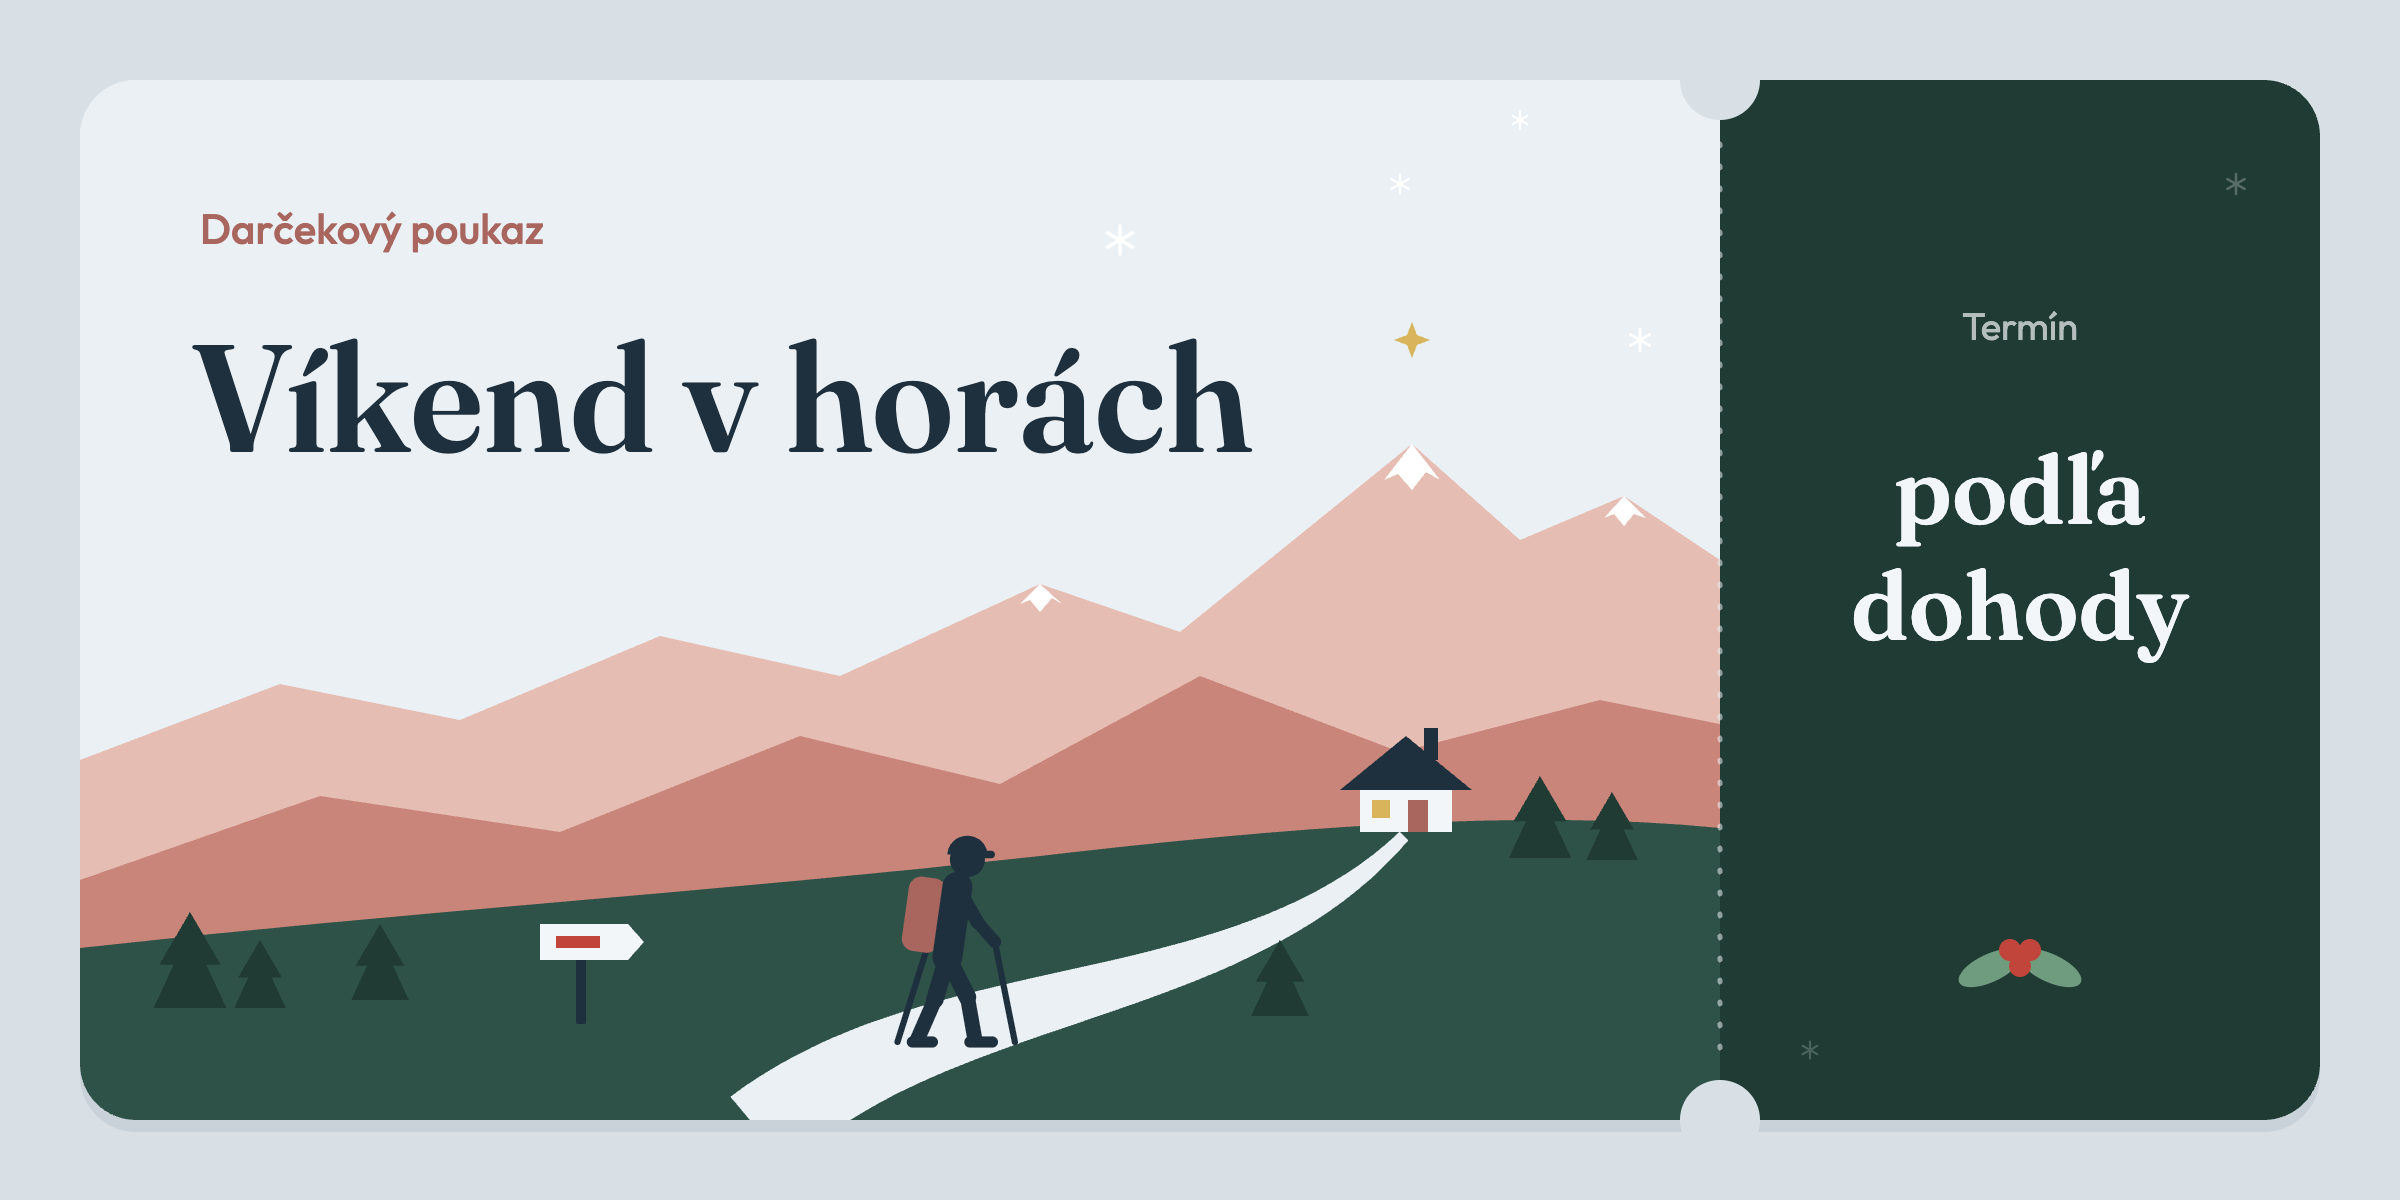
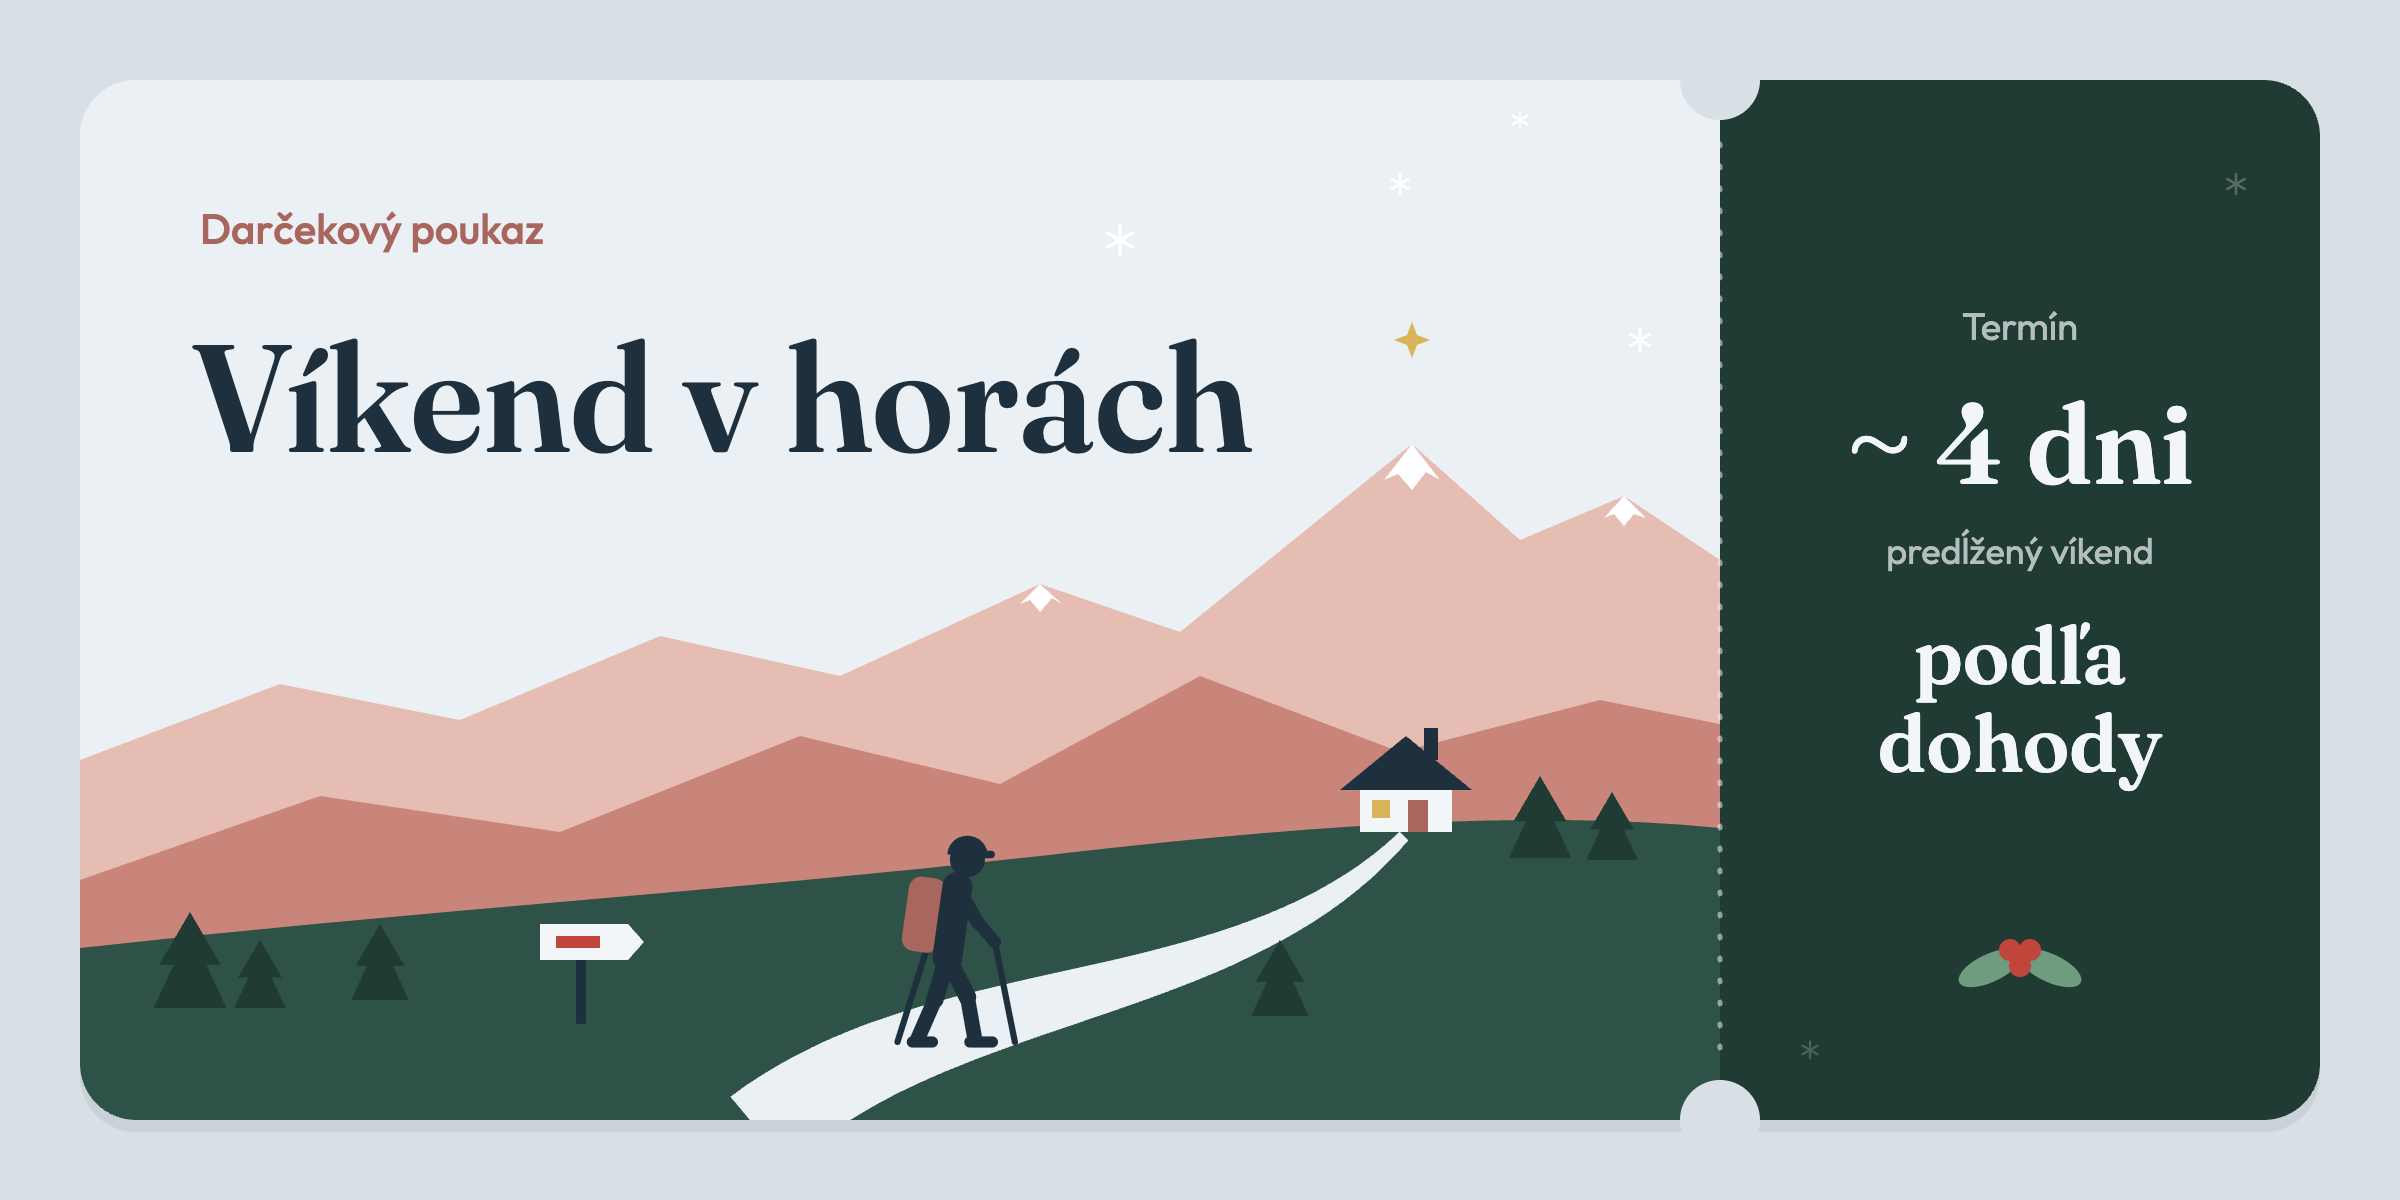
Shared ~ 4 dni stub for undated vouchers; add Lyžovačka

Changed region(s): [[0.75, 0.3392, 0.9375, 0.6475]]

diff --git a/poukaz-lyzovacka.html b/poukaz-lyzovacka.html
@@ -1,0 +1,153 @@
+<!DOCTYPE html>
+<html lang="sk">
+<head>
+<meta charset="utf-8">
+<meta name="viewport" content="width=device-width, initial-scale=1">
+<title>Poukaz: Lyžovačka</title>
+<link rel="preconnect" href="https://fonts.googleapis.com">
+<link rel="preconnect" href="https://fonts.gstatic.com" crossorigin>
+<link href="https://fonts.googleapis.com/css2?family=Fraunces:opsz,wght@9..144,600&family=Outfit:wght@400;500&display=swap" rel="stylesheet">
+<style>
+  html, body { margin: 0; height: 100%; }
+  body {
+    background: #D8E0E6;
+    display: flex; align-items: center; justify-content: center;
+    padding: 24px; box-sizing: border-box;
+  }
+  svg { width: 100%; max-width: 1200px; height: auto; display: block; }
+  .serif { font-family: "Fraunces", Georgia, "Times New Roman", serif; font-weight: 600; }
+  .sans  { font-family: "Outfit", "Segoe UI", system-ui, sans-serif; }
+</style>
+</head>
+<body>
+<svg viewBox="0 0 1200 600" xmlns="http://www.w3.org/2000/svg" role="img" aria-label="Darčekový poukaz: Lyžovačka, približne 4 dni, predĺžený víkend, termín podľa dohody">
+  <defs>
+    <clipPath id="leftPanel">
+      <path d="M68,40 H860 V560 H68 A28,28 0 0 1 40,532 V68 A28,28 0 0 1 68,40 Z"/>
+    </clipPath>
+    <g id="flake" stroke="#FFFFFF" stroke-width="1.8" stroke-linecap="round">
+      <line x1="0" y1="-7" x2="0" y2="7"/>
+      <line x1="-6.1" y1="-3.5" x2="6.1" y2="3.5"/>
+      <line x1="-6.1" y1="3.5" x2="6.1" y2="-3.5"/>
+    </g>
+    <path id="star" d="M0,-9 L2.5,-2.5 L9,0 L2.5,2.5 L0,9 L-2.5,2.5 L-9,0 L-2.5,-2.5 Z" fill="#D9B45A"/>
+  </defs>
+
+  <!-- card shadow + body -->
+  <rect x="40" y="46" width="1120" height="520" rx="28" fill="#1E2F3D" opacity="0.08"/>
+  <rect x="40" y="40" width="1120" height="520" rx="28" fill="#EAF0F4"/>
+
+  <!-- LEFT: scene -->
+  <g clip-path="url(#leftPanel)">
+    <rect x="40" y="40" width="820" height="520" fill="#EAF0F4"/>
+
+    <!-- snowflakes (a few more: it's winter) -->
+    <use href="#flake" transform="translate(560,110)"/>
+    <use href="#flake" transform="translate(640,180) scale(0.7)"/>
+    <use href="#flake" transform="translate(820,150) scale(0.8)"/>
+    <use href="#flake" transform="translate(500,250) scale(0.6)"/>
+    <use href="#flake" transform="translate(720,70) scale(0.6)"/>
+
+    <!-- star -->
+    <use href="#star" transform="translate(780,98)"/>
+
+    <!-- back range, deep snow -->
+    <polygon fill="#E6BDB3" points="40,380 150,330 240,350 350,290 440,320 540,250 600,284 680,206 760,262 860,232 860,560 40,560"/>
+    <polygon fill="#FFFFFF" points="680,206 654,238 667,233 680,244 692,232 706,238"/>
+    <polygon fill="#FFFFFF" points="540,250 520,272 530,268 540,276 550,267 560,272"/>
+    <polygon fill="#FFFFFF" points="350,290 334,306 342,303 350,309 358,302 366,306"/>
+    <polygon fill="#FFFFFF" points="860,232 836,250 846,248 856,255 860,253"/>
+
+    <!-- mid range -->
+    <polygon fill="#C98579" points="40,440 160,400 260,420 380,360 470,390 560,340 640,372 740,330 860,360 860,560 40,560"/>
+    <polygon fill="#FFFFFF" points="380,360 364,374 372,372 380,378 388,371 396,374"/>
+    <polygon fill="#FFFFFF" points="740,330 722,344 731,342 740,349 749,341 758,344"/>
+
+    <!-- piste -->
+    <path fill="#FFFFFF" d="M40,492 C300,470 560,390 860,318 L860,560 L40,560 Z"/>
+    <polygon fill="#D8E0E6" points="392.0,524.3 398.2,525.4 404.4,526.5 410.6,527.1 416.8,527.5 423.0,527.5 429.2,526.8 435.4,525.6 441.6,523.9 447.8,521.5 454.0,518.7 460.2,515.6 466.4,512.1 472.6,508.4 478.8,504.7 485.0,501.2 491.2,497.9 497.4,494.9 503.6,492.4 509.8,490.3 516.0,488.8 522.2,487.8 528.4,487.4 534.6,487.5 540.8,488.0 547.0,488.8 553.2,489.8 559.4,490.8 565.6,491.8 571.8,492.5 578.0,492.9 584.2,492.8 590.4,492.2 596.6,491.1 602.8,489.5 609.0,487.3 615.2,484.6 621.4,481.4 627.6,478.0 633.8,474.3 640.0,470.5 646.2,466.9 652.4,463.3 658.6,460.2 664.8,457.3 671.0,455.1 677.2,453.3 683.4,452.1 689.6,451.4 695.8,451.4 702.0,451.6 708.2,452.3 714.4,453.2 720.6,454.2 726.8,455.2 733.0,455.9 739.2,456.5 745.4,456.7 751.6,456.4 757.8,455.5 764.0,454.0 764.0,456.8 757.8,458.3 751.6,459.2 745.4,459.5 739.2,459.3 733.0,458.7 726.8,458.0 720.6,457.0 714.4,456.0 708.2,455.1 702.0,454.4 695.8,454.2 689.6,454.2 683.4,454.9 677.2,456.1 671.0,457.9 664.8,460.1 658.6,463.0 652.4,466.1 646.2,469.7 640.0,473.3 633.8,477.1 627.6,480.8 621.4,484.2 615.2,487.4 609.0,490.1 602.8,492.3 596.6,493.9 590.4,495.0 584.2,495.6 578.0,495.7 571.8,495.3 565.6,494.6 559.4,493.6 553.2,492.6 547.0,491.6 540.8,490.8 534.6,490.3 528.4,490.2 522.2,490.6 516.0,491.6 509.8,493.1 503.6,495.2 497.4,497.7 491.2,500.7 485.0,504.0 478.8,507.5 472.6,511.2 466.4,514.9 460.2,518.4 454.0,521.5 447.8,524.3 441.6,526.7 435.4,528.4 429.2,529.6 423.0,530.3 416.8,530.3 410.6,529.9 404.4,529.3 398.2,528.2 392.0,527.1"/>
+
+    <!-- chairlift -->
+    <g fill="#1E2F3D">
+      <rect x="557" y="305.18860540624996" width="6" height="92" rx="2"/>
+      <rect x="548" y="303.18860540624996" width="24" height="5" rx="2"/>
+      <rect x="787" y="247.07196738275002" width="6" height="92" rx="2"/>
+      <rect x="778" y="245.07196738275002" width="24" height="5" rx="2"/>
+      <rect x="468.9" y="326.83" width="404.5" height="2.2" rx="1.1" transform="rotate(-14.2 470 327.93)"/>
+      <rect x="508.9" y="316.723" width="24.2" height="2.2" rx="1.1" transform="rotate(90.0 510 317.823)"/>
+      <rect x="499" y="337.823" width="18.0" height="4" rx="2" transform="rotate(0.0 501 339.823)"/>
+      <rect x="499" y="337.823" width="14.0" height="4" rx="2" transform="rotate(-90.0 501 339.823)"/>
+      <rect x="638.9" y="283.874" width="24.2" height="2.2" rx="1.1" transform="rotate(90.0 640 284.974)"/>
+      <rect x="629" y="304.974" width="18.0" height="4" rx="2" transform="rotate(0.0 631 306.974)"/>
+      <rect x="629" y="304.974" width="14.0" height="4" rx="2" transform="rotate(-90.0 631 306.974)"/>
+      <rect x="718.9" y="263.66" width="24.2" height="2.2" rx="1.1" transform="rotate(90.0 720 264.76)"/>
+      <rect x="709" y="284.76" width="18.0" height="4" rx="2" transform="rotate(0.0 711 286.76)"/>
+      <rect x="709" y="284.76" width="14.0" height="4" rx="2" transform="rotate(-90.0 711 286.76)"/>
+    </g>
+
+    <!-- snowy pines -->
+    <g>
+      <polygon fill="#1F3B34" points="92,442.86093775524995 79.988,473.02093775525 85.708,473.02093775525 77.7,494.86093775524995 106.3,494.86093775524995 98.292,473.02093775525 104.012,473.02093775525"/>
+      <polygon fill="#FFFFFF" points="92,442.86093775524995 86.28,457.42093775524995 97.72,457.42093775524995"/>
+      <polygon fill="#1F3B34" points="128,452.4667851562499 119.222,474.5067851562499 123.402,474.5067851562499 117.55,490.4667851562499 138.45,490.4667851562499 132.598,474.5067851562499 136.778,474.5067851562499"/>
+      <polygon fill="#FFFFFF" points="128,452.4667851562499 123.82,463.1067851562499 132.18,463.1067851562499"/>
+      <polygon fill="#1F3B34" points="232,430.28653536074984 221.836,455.8065353607498 226.676,455.8065353607498 219.9,474.28653536074984 244.1,474.28653536074984 237.324,455.8065353607498 242.164,455.8065353607498"/>
+      <polygon fill="#FFFFFF" points="232,430.28653536074984 227.16,442.60653536074983 236.84,442.60653536074983"/>
+      <polygon fill="#1F3B34" points="668,333.87033871825 658.76,357.07033871825 663.16,357.07033871825 657.0,373.87033871825 679.0,373.87033871825 672.84,357.07033871825 677.24,357.07033871825"/>
+      <polygon fill="#FFFFFF" points="668,333.87033871825 663.6,345.07033871825 672.4,345.07033871825"/>
+      <polygon fill="#1F3B34" points="830,283.26045270525 818.45,312.26045270525 823.95,312.26045270525 816.25,333.26045270525 843.75,333.26045270525 836.05,312.26045270525 841.55,312.26045270525"/>
+      <polygon fill="#FFFFFF" points="830,283.26045270525 824.5,297.26045270525 835.5,297.26045270525"/>
+    </g>
+
+    <!-- skier carving downhill -->
+    <g transform="translate(380,532.3) rotate(-12.6) scale(-1.45,1.45)" fill="#1E2F3D">
+      <rect x="-29.75" y="-1.75" width="61.5" height="3.5" rx="1.75" transform="rotate(0.0 -28 0)"/>
+      <rect x="28.25" y="-1.75" width="9.9" height="3.5" rx="1.75" transform="rotate(-38.7 30 0)"/>
+      <rect x="-9.5" y="-6.5" width="24.2" height="7" rx="3.5" transform="rotate(-54.5 -6 -3)"/>
+      <rect x="0.25" y="-20.75" width="23.9" height="7.5" rx="3.75" transform="rotate(-127.6 4 -17)"/>
+      <rect x="-9.1" y="-35.1" width="39.8" height="2.2" rx="1.1" transform="rotate(118.6 -8 -34)"/>
+      <rect x="-11" y="-37" width="37.3" height="14" rx="7" fill="#A8665E" transform="rotate(-59.0 -4 -30)"/>
+      <rect x="-1.5" y="-6.5" width="24.2" height="7" rx="3.5" transform="rotate(-54.5 2 -3)"/>
+      <rect x="8.25" y="-20.75" width="26.6" height="7.5" rx="3.75" transform="rotate(-137.1 12 -17)"/>
+      <rect x="4.25" y="-50.75" width="19.0" height="5.5" rx="2.75" transform="rotate(48.0 7 -48)"/>
+      <rect x="13.5" y="-40.5" width="11.3" height="5" rx="2.5" transform="rotate(18.4 16 -38)"/>
+      <rect x="20.9" y="-37.1" width="46.2" height="2.2" rx="1.1" transform="rotate(129.5 22 -36)"/>
+      <circle cx="14" cy="-58" r="7"/>
+      <path d="M6,-59 a8.5,8 0 0,1 17,0 z"/>
+      <rect x="16" y="-60" width="8" height="4" rx="2" fill="#A8665E"/>
+    </g>
+
+    <!-- title block -->
+    <text x="100" y="122" class="sans" font-size="21" font-weight="500" fill="#A8665E">Darčekový poukaz</text>
+    <text x="96" y="226" class="serif" font-size="104" fill="#1E2F3D">Lyžovačka</text>
+  </g>
+
+  <!-- RIGHT: stub -->
+  <path d="M860,40 H1132 A28,28 0 0 1 1160,68 V532 A28,28 0 0 1 1132,560 H860 Z" fill="#1F3B34"/>
+  <use href="#flake" transform="translate(1118,92) scale(0.7)" opacity="0.25"/>
+  <use href="#flake" transform="translate(905,525) scale(0.6)" opacity="0.2"/>
+
+  <g text-anchor="middle" fill="#F3F6F8" transform="translate(0,40)">
+    <text x="1010" y="130" class="sans" font-size="19" opacity="0.7">Termín</text>
+    <text x="1010" y="202" class="serif" font-size="56">~ 4 dni</text>
+    <text x="1010" y="242" class="sans" font-size="18" opacity="0.7">predĺžený víkend</text>
+    <text x="1010" y="302" class="serif" font-size="40">podľa</text>
+    <text x="1010" y="346" class="serif" font-size="40">dohody</text>
+  </g>
+
+  <!-- holly sprig -->
+  <g>
+    <ellipse cx="995" cy="484" rx="17" ry="7" fill="#6F9B7E" transform="rotate(-25 995 484)"/>
+    <ellipse cx="1025" cy="484" rx="17" ry="7" fill="#6F9B7E" transform="rotate(25 1025 484)"/>
+    <circle cx="1005" cy="475" r="5.5" fill="#C2453B"/>
+    <circle cx="1015" cy="475" r="5.5" fill="#C2453B"/>
+    <circle cx="1010" cy="483" r="5.5" fill="#C2453B"/>
+  </g>
+
+  <!-- perforation -->
+  <line x1="860" y1="72" x2="860" y2="528" stroke="#EAF0F4" stroke-opacity="0.55" stroke-width="2.5" stroke-dasharray="1 10" stroke-linecap="round"/>
+  <circle cx="860" cy="40" r="20" fill="#D8E0E6"/>
+  <circle cx="860" cy="560" r="20" fill="#D8E0E6"/>
+</svg>
+</body>
+</html>

diff --git a/poukaz-vikend-v-horach.html b/poukaz-vikend-v-horach.html
@@ -20,7 +20,7 @@
 </style>
 </head>
 <body>
-<svg viewBox="0 0 1200 600" xmlns="http://www.w3.org/2000/svg" role="img" aria-label="Darčekový poukaz: Víkend v horách, termín podľa dohody">
+<svg viewBox="0 0 1200 600" xmlns="http://www.w3.org/2000/svg" role="img" aria-label="Darčekový poukaz: Víkend v horách, približne 4 dni, predĺžený víkend, termín podľa dohody">
   <defs>
     <clipPath id="leftPanel">
       <path d="M68,40 H860 V560 H68 A28,28 0 0 1 40,532 V68 A28,28 0 0 1 68,40 Z"/>
@@ -124,8 +124,10 @@
 
   <g text-anchor="middle" fill="#F3F6F8" transform="translate(0,40)">
     <text x="1010" y="130" class="sans" font-size="19" opacity="0.7">Termín</text>
-    <text x="1010" y="222" class="serif" font-size="48">podľa</text>
-    <text x="1010" y="280" class="serif" font-size="48">dohody</text>
+    <text x="1010" y="202" class="serif" font-size="56">~ 4 dni</text>
+    <text x="1010" y="242" class="sans" font-size="18" opacity="0.7">predĺžený víkend</text>
+    <text x="1010" y="302" class="serif" font-size="40">podľa</text>
+    <text x="1010" y="346" class="serif" font-size="40">dohody</text>
   </g>
 
   <!-- holly sprig -->

diff --git a/build.py b/build.py
@@ -2,7 +2,8 @@
 """Build self-contained voucher pages from base/template.html.
 
 Each voucher lives in vouchery/<name>/ with:
-  voucher.json  title, slug, and either "dates" {start, end, year} or "stub" (raw SVG)
+  voucher.json  title, slug, and one of: "dates" {start, end, year}, "flex": true
+                (~ 4 dni, termín podľa dohody), or "stub" (raw SVG)
                 optional: "titleSize" (default 104), "aria" (overrides the generated label)
   scene.svg     the left-panel illustration (snowflakes, star, landscape); drawn
                 under the title, so keep x < 480, y < 240 clear
@@ -50,6 +51,16 @@ def date_stub(d):
     ])
 
 
+# Stub for vouchers without fixed dates: about 4 days, picked by agreement.
+FLEX_STUB = "\n".join([
+    '    <text x="1010" y="130" class="sans" font-size="19" opacity="0.7">Termín</text>',
+    '    <text x="1010" y="202" class="serif" font-size="56">~ 4 dni</text>',
+    '    <text x="1010" y="242" class="sans" font-size="18" opacity="0.7">predĺžený víkend</text>',
+    '    <text x="1010" y="302" class="serif" font-size="40">podľa</text>',
+    '    <text x="1010" y="346" class="serif" font-size="40">dohody</text>',
+])
+
+
 def build(folder: Path):
     cfg = json.loads((folder / "voucher.json").read_text(encoding="utf-8"))
     title = cfg["title"]
@@ -59,6 +70,9 @@ def build(folder: Path):
         d = cfg["dates"]
         stub = date_stub(d)
         aria = f'Darčekový poukaz: {title}, {d["start"]} až {d["end"]} {d["year"]}'
+    elif cfg.get("flex"):
+        stub = FLEX_STUB
+        aria = f"Darčekový poukaz: {title}, približne 4 dni, predĺžený víkend, termín podľa dohody"
     else:
         stub = cfg["stub"].rstrip("\n")
         aria = f"Darčekový poukaz: {title}"
